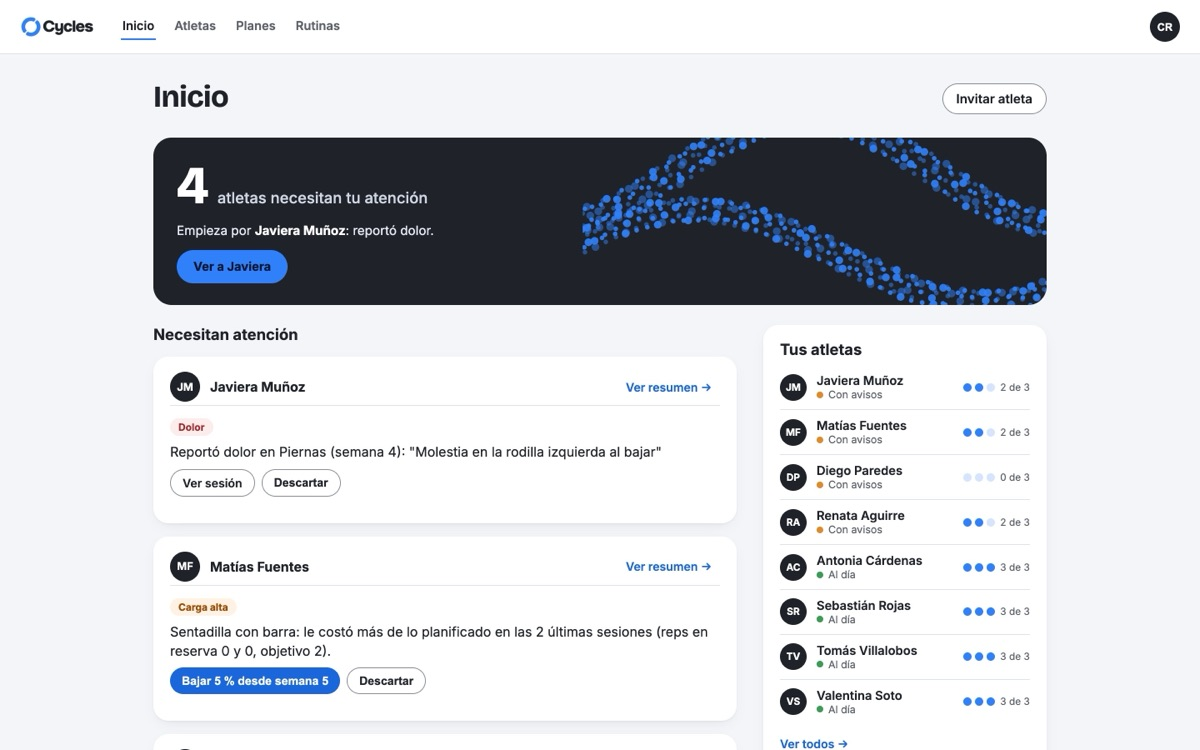
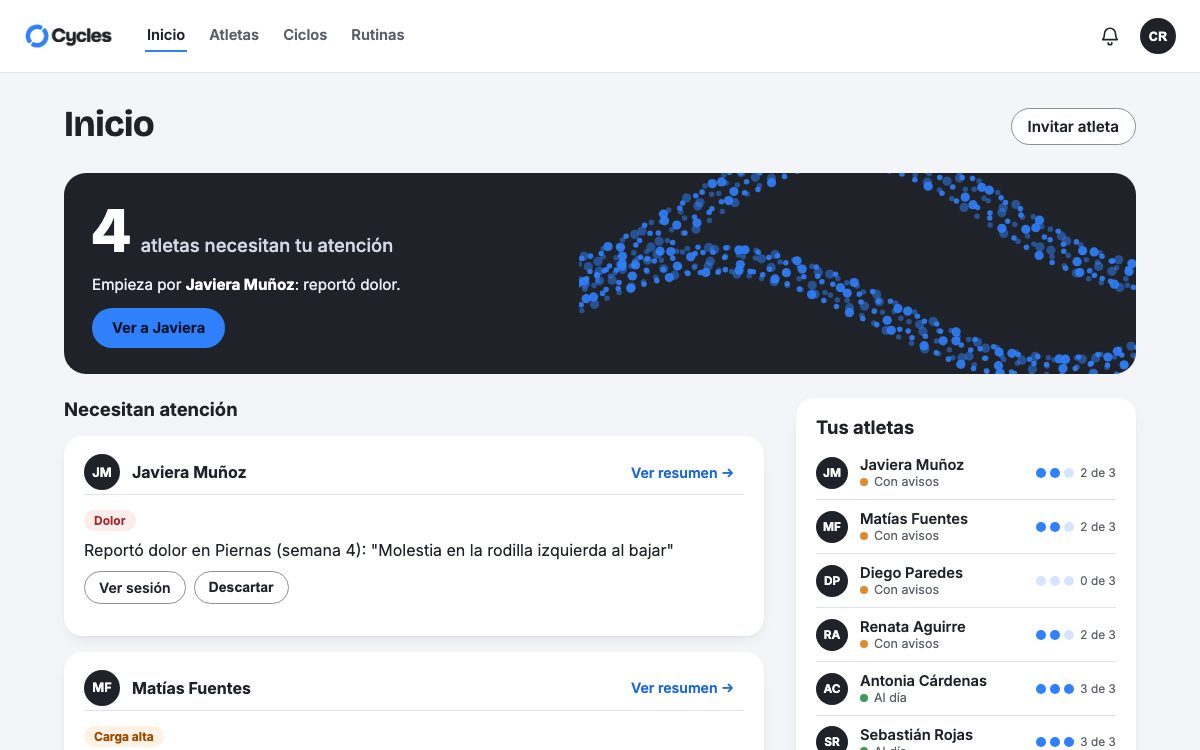
Vuelve a tomar las capturas de la landing con «Ciclos» en el menú
Las nueve capturas del coach (escritorio 1.400 y 1.200 px, móvil 750 px) se
tomaron de nuevo desde la base de demostración con la versión actual, que
ahora dice Ciclos y muestra la campana de avisos. plan.jpg y m-plan.jpg usan
el ciclo con dos sesiones omitidas y su nota. Mismos nombres de archivo y
dimensiones, así que no cambia el código.

diff --git a/docs/brand/landing.md b/docs/brand/landing.md
@@ -108,5 +108,5 @@ Todas se apagan con "reducir movimiento" y solo corren cuando están a la vista.
 
 - Verificar con producto el mensaje "demostrar resultados" antes de usarlo en público (no aparece en esta versión).
 - Revisar el texto con 2 o 3 coaches antes de publicar.
-- Capturas de la web a mayor resolución (hoy 800 px). Las de la portada (1.400 px) y las de "Todos tus atletas, en un solo lugar" (escritorio 1.200 px, móvil 750 px, actualizadas el 2026-10-12 con el Inicio rediseñado) salen de la base de demostración con la versión actual. La captura del plan (`plan.jpg`, `m-plan.jpg`, sección de la sesión omitida) también se actualizó el 2026-10-15 con la cadena de semanas, dos sesiones omitidas y su nota.
+- Capturas de la web a mayor resolución (hoy 800 px). Las de la portada (1.400 px) y las de "Todos tus atletas, en un solo lugar" (escritorio 1.200 px, móvil 750 px, actualizadas el 2026-10-12 con el Inicio rediseñado) salen de la base de demostración con la versión actual. La captura del plan (`plan.jpg`, `m-plan.jpg`, sección de la sesión omitida) también se actualizó el 2026-10-15 con la cadena de semanas, dos sesiones omitidas y su nota. Las nueve capturas se volvieron a tomar el 2026-10-18 con el término «Ciclos» en el menú, desde la base de demostración (`apps/api/scripts/seed-demo.ts`): `plan.jpg` y `m-plan.jpg` usan el ciclo de Diego Paredes (dos sesiones omitidas) y el resto el de Matías Fuentes.
 - Probar la landing en un iPhone real y en Safari (P-19).
